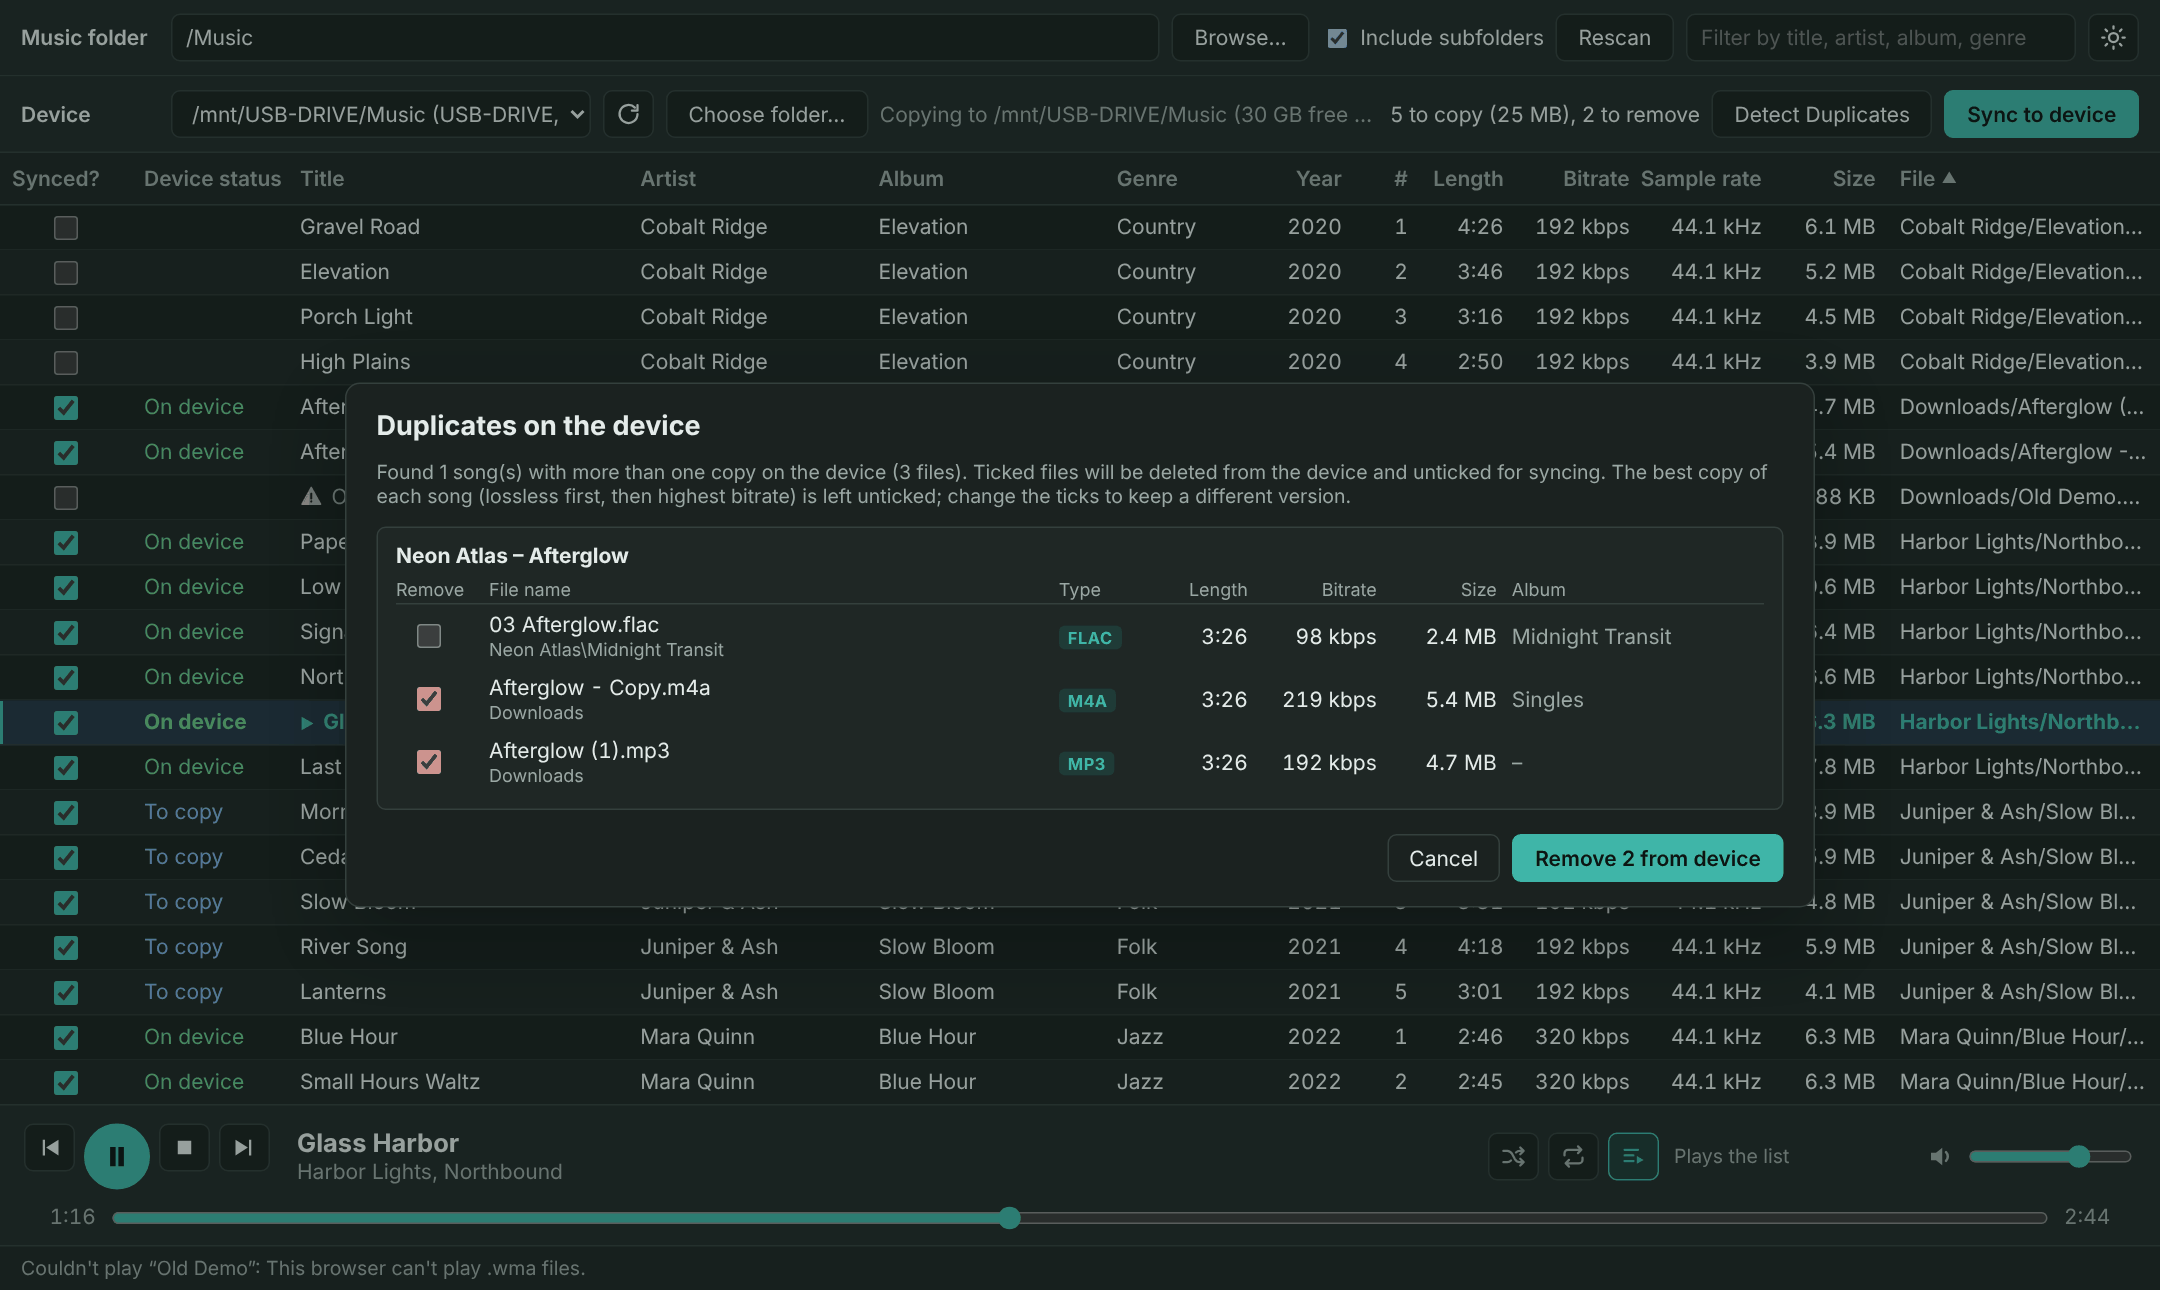
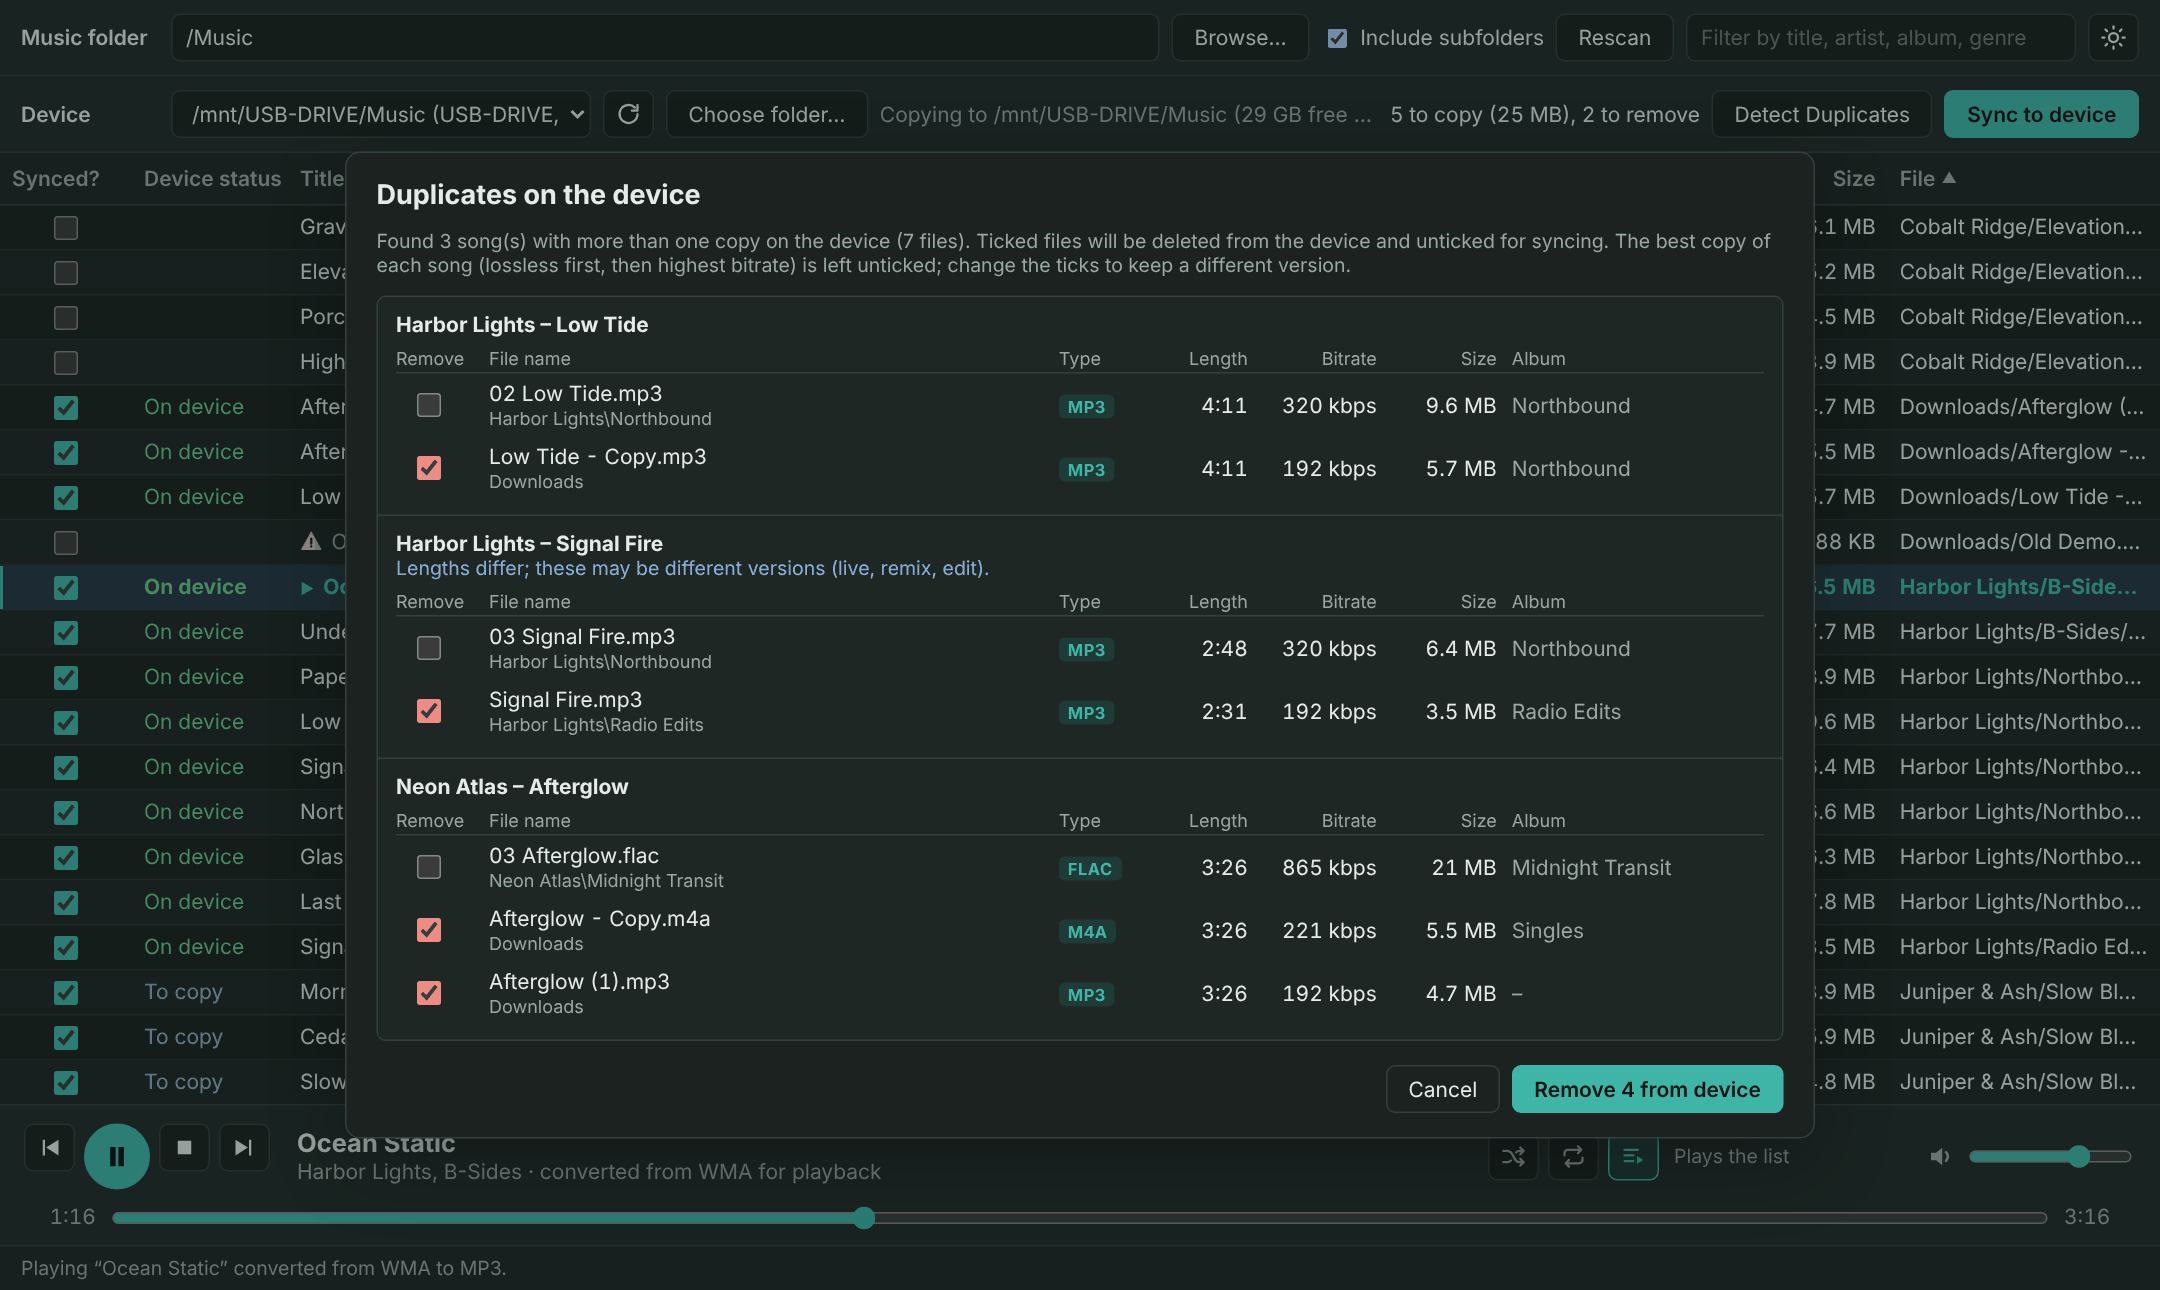
Updating screenshots
Screenshots now match the revised detect duplicate prompts and addition of the music playback conversion.

diff --git a/README.md b/README.md
@@ -15,6 +15,10 @@ page, and copies/removes songs on your external drive. It only listens on
 | **Right-click menu** | **Folder picker** |
 | ![Right-click menu on several highlighted songs](docs/screenshots/context-menu.png) | ![Folder picker](docs/screenshots/folder-picker.png) |
 
+A WMA file playing in the browser after being converted on the fly:
+
+![Player showing a WMA converted for playback](docs/screenshots/playback-conversion.png)
+
 Player with shuffle on and repeat set to forever:
 
 ![Player controls](docs/screenshots/player-controls.png)
